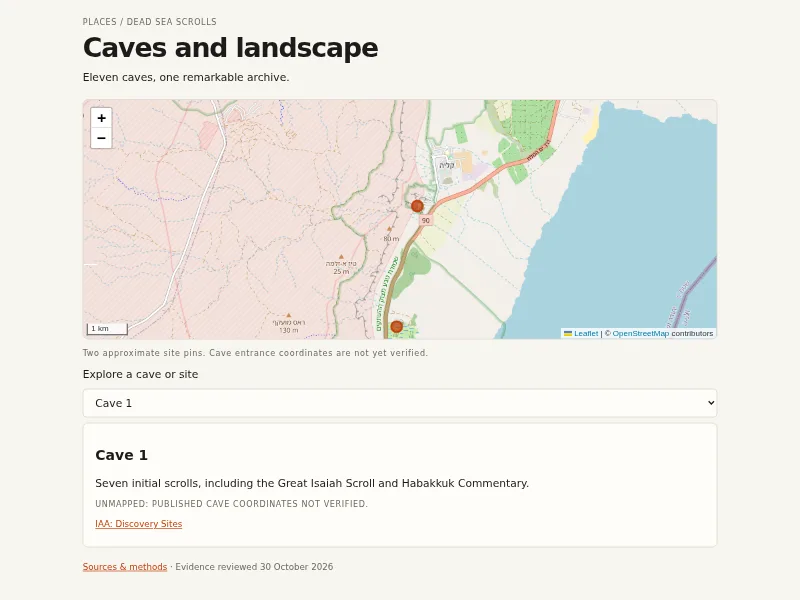
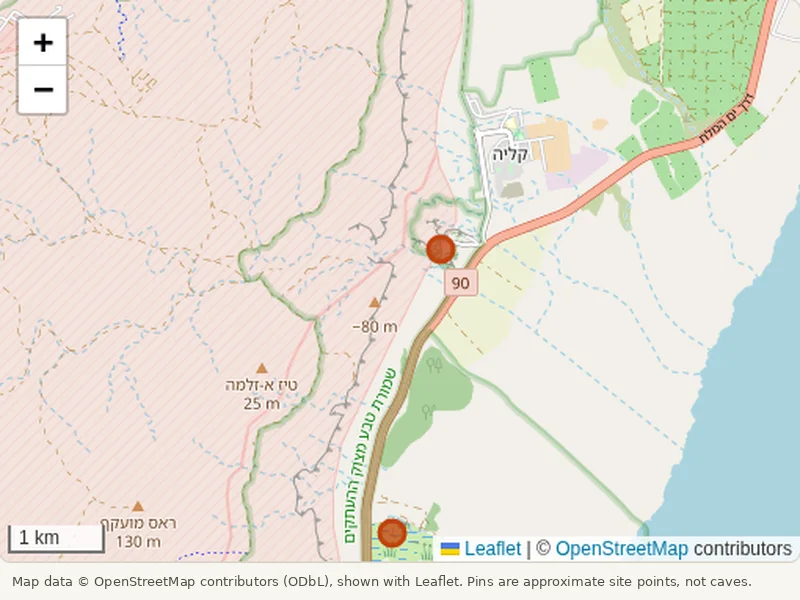
Fit the timeline, map and jar into the site's frame; better posters (#13)
* Compact header in short frames

* Keep the scale label on one line

* Posters that show the visual; record the sandbox check

---------

diff --git a/artifacts/jar/index.html b/artifacts/jar/index.html
@@ -1,1 +1,1 @@
-<!doctype html><html lang="en"><head><meta charset="utf-8"><meta name="viewport" content="width=device-width,initial-scale=1"><title>A Qumran scroll jar</title><link rel="stylesheet" href="./style.css"><script type="importmap">{"imports":{"three":"https://cdn.jsdelivr.net/npm/three@0.170.0/build/three.module.js","three/addons/":"https://cdn.jsdelivr.net/npm/three@0.170.0/examples/jsm/"}}</script></head><body><main><header><div class="eyebrow">Objects / KhQ 1474</div><h1>A vessel for a scroll</h1><p>Drag to turn. Scroll or pinch to zoom.</p></header><div id="scene" style="height:440px;position:relative;border:1px solid var(--line);border-radius:8px;overflow:hidden" role="img" aria-label="Interactive clay scroll jar with lid and a ten centimetre scale bar"><p id="status" style="padding:18px">Loading the 3D model…</p><span id="scale" style="position:absolute;bottom:20px;left:24px;border-bottom:3px solid var(--accent);text-align:center;font-size:12px;pointer-events:none">10 cm</span></div><p style="display:flex;gap:8px;flex-wrap:wrap"><button id="lid" disabled>Lift lid</button><button id="spin" disabled>Pause rotation</button><button id="reset" disabled>Reset view</button></p><p id="dimensions" class="panel"></p><p><small>Interpretive lathe model, not a scan. Profile, texture and lid fit are reconstructed.</small></p><footer><a href="./SOURCES.md" target="_blank" rel="noopener">Sources & methods</a> · Evidence reviewed 30 October 2026</footer></main><script type="module" src="./app.js"></script></body></html>
+<!doctype html><html lang="en"><head><meta charset="utf-8"><meta name="viewport" content="width=device-width,initial-scale=1"><title>A Qumran scroll jar</title><link rel="stylesheet" href="./style.css"><script type="importmap">{"imports":{"three":"https://cdn.jsdelivr.net/npm/three@0.170.0/build/three.module.js","three/addons/":"https://cdn.jsdelivr.net/npm/three@0.170.0/examples/jsm/"}}</script></head><body><main><header><div class="eyebrow">Objects / KhQ 1474</div><h1>A vessel for a scroll</h1><p>Drag to turn. Scroll or pinch to zoom.</p></header><div id="scene" style="height:440px;position:relative;border:1px solid var(--line);border-radius:8px;overflow:hidden" role="img" aria-label="Interactive clay scroll jar with lid and a ten centimetre scale bar"><p id="status" style="padding:18px">Loading the 3D model…</p><span id="scale" style="white-space:nowrap;position:absolute;bottom:20px;left:24px;border-bottom:3px solid var(--accent);text-align:center;font-size:12px;pointer-events:none">10 cm</span></div><p style="display:flex;gap:8px;flex-wrap:wrap"><button id="lid" disabled>Lift lid</button><button id="spin" disabled>Pause rotation</button><button id="reset" disabled>Reset view</button></p><p id="dimensions" class="panel"></p><p><small>Interpretive lathe model, not a scan. Profile, texture and lid fit are reconstructed.</small></p><footer><a href="./SOURCES.md" target="_blank" rel="noopener">Sources & methods</a> · Evidence reviewed 30 October 2026</footer></main><script type="module" src="./app.js"></script></body></html>

diff --git a/artifacts/jar/style.css b/artifacts/jar/style.css
@@ -1,1 +1,1 @@
-*{box-sizing:border-box} :root{color-scheme:light dark;--bg:#F7F5F0;--fg:#1C1B19;--muted:#6d685f;--line:#d8d2c6;--accent:#C2410C;--card:#fffdf8} @media(prefers-color-scheme:dark){:root{--bg:#201e1a;--fg:#eee9dd;--muted:#beb5a6;--line:#514a40;--accent:#fb923c;--card:#29251f}} body{margin:0;background:var(--bg);color:var(--fg);font:16px/1.55 system-ui,sans-serif}main{max-width:1000px;margin:auto;padding:24px}header{margin-bottom:20px}h1{font-size:clamp(26px,6vw,40px);font-weight:550;letter-spacing:-.04em;line-height:1.1;margin:6px 0 12px}h2{font-size:21px;line-height:1.25}p{margin:8px 0}.eyebrow,small{color:var(--muted);font-size:12px;letter-spacing:.08em}.eyebrow{text-transform:uppercase}a{color:var(--accent);overflow-wrap:anywhere}button,select{font:inherit;color:var(--fg);background:var(--card);border:1px solid var(--line);border-radius:6px;padding:10px 14px;cursor:pointer}button:focus-visible,select:focus-visible,a:focus-visible{outline:3px solid var(--accent);outline-offset:3px}button:hover{border-color:var(--accent)}footer{margin-top:20px;font-size:13px;color:var(--muted)}.panel{padding:18px;border:1px solid var(--line);background:var(--card);border-radius:8px}.sources{font-size:13px}.sources a{display:block;padding:4px 0}#status{color:var(--muted)}@media(max-width:420px){main{padding:18px}}
+*{box-sizing:border-box} :root{color-scheme:light dark;--bg:#F7F5F0;--fg:#1C1B19;--muted:#6d685f;--line:#d8d2c6;--accent:#C2410C;--card:#fffdf8} @media(prefers-color-scheme:dark){:root{--bg:#201e1a;--fg:#eee9dd;--muted:#beb5a6;--line:#514a40;--accent:#fb923c;--card:#29251f}} body{margin:0;background:var(--bg);color:var(--fg);font:16px/1.55 system-ui,sans-serif}main{max-width:1000px;margin:auto;padding:24px}header{margin-bottom:20px}h1{font-size:clamp(26px,6vw,40px);font-weight:550;letter-spacing:-.04em;line-height:1.1;margin:6px 0 12px}h2{font-size:21px;line-height:1.25}p{margin:8px 0}.eyebrow,small{color:var(--muted);font-size:12px;letter-spacing:.08em}.eyebrow{text-transform:uppercase}a{color:var(--accent);overflow-wrap:anywhere}button,select{font:inherit;color:var(--fg);background:var(--card);border:1px solid var(--line);border-radius:6px;padding:10px 14px;cursor:pointer}button:focus-visible,select:focus-visible,a:focus-visible{outline:3px solid var(--accent);outline-offset:3px}button:hover{border-color:var(--accent)}footer{margin-top:20px;font-size:13px;color:var(--muted)}.panel{padding:18px;border:1px solid var(--line);background:var(--card);border-radius:8px}.sources{font-size:13px}.sources a{display:block;padding:4px 0}#status{color:var(--muted)}@media(max-width:420px){main{padding:18px}} @media (max-height:520px){main{padding:12px 16px}header{margin-bottom:8px}h1{font-size:22px;margin:0 0 2px}header p{font-size:13px;margin:0}.eyebrow{font-size:11px}#scene{height:64vh!important}#map{height:60vh!important}#events{margin-top:12px}#events button{padding:9px 6px}#detail{padding:12px}}

diff --git a/artifacts/qumran-map/style.css b/artifacts/qumran-map/style.css
@@ -1,1 +1,1 @@
-*{box-sizing:border-box} :root{color-scheme:light dark;--bg:#F7F5F0;--fg:#1C1B19;--muted:#6d685f;--line:#d8d2c6;--accent:#C2410C;--card:#fffdf8} @media(prefers-color-scheme:dark){:root{--bg:#201e1a;--fg:#eee9dd;--muted:#beb5a6;--line:#514a40;--accent:#fb923c;--card:#29251f}} body{margin:0;background:var(--bg);color:var(--fg);font:16px/1.55 system-ui,sans-serif}main{max-width:1000px;margin:auto;padding:24px}header{margin-bottom:20px}h1{font-size:clamp(26px,6vw,40px);font-weight:550;letter-spacing:-.04em;line-height:1.1;margin:6px 0 12px}h2{font-size:21px;line-height:1.25}p{margin:8px 0}.eyebrow,small{color:var(--muted);font-size:12px;letter-spacing:.08em}.eyebrow{text-transform:uppercase}a{color:var(--accent);overflow-wrap:anywhere}button,select{font:inherit;color:var(--fg);background:var(--card);border:1px solid var(--line);border-radius:6px;padding:10px 14px;cursor:pointer}button:focus-visible,select:focus-visible,a:focus-visible{outline:3px solid var(--accent);outline-offset:3px}button:hover{border-color:var(--accent)}footer{margin-top:20px;font-size:13px;color:var(--muted)}.panel{padding:18px;border:1px solid var(--line);background:var(--card);border-radius:8px}.sources{font-size:13px}.sources a{display:block;padding:4px 0}#status{color:var(--muted)}@media(max-width:420px){main{padding:18px}}
+*{box-sizing:border-box} :root{color-scheme:light dark;--bg:#F7F5F0;--fg:#1C1B19;--muted:#6d685f;--line:#d8d2c6;--accent:#C2410C;--card:#fffdf8} @media(prefers-color-scheme:dark){:root{--bg:#201e1a;--fg:#eee9dd;--muted:#beb5a6;--line:#514a40;--accent:#fb923c;--card:#29251f}} body{margin:0;background:var(--bg);color:var(--fg);font:16px/1.55 system-ui,sans-serif}main{max-width:1000px;margin:auto;padding:24px}header{margin-bottom:20px}h1{font-size:clamp(26px,6vw,40px);font-weight:550;letter-spacing:-.04em;line-height:1.1;margin:6px 0 12px}h2{font-size:21px;line-height:1.25}p{margin:8px 0}.eyebrow,small{color:var(--muted);font-size:12px;letter-spacing:.08em}.eyebrow{text-transform:uppercase}a{color:var(--accent);overflow-wrap:anywhere}button,select{font:inherit;color:var(--fg);background:var(--card);border:1px solid var(--line);border-radius:6px;padding:10px 14px;cursor:pointer}button:focus-visible,select:focus-visible,a:focus-visible{outline:3px solid var(--accent);outline-offset:3px}button:hover{border-color:var(--accent)}footer{margin-top:20px;font-size:13px;color:var(--muted)}.panel{padding:18px;border:1px solid var(--line);background:var(--card);border-radius:8px}.sources{font-size:13px}.sources a{display:block;padding:4px 0}#status{color:var(--muted)}@media(max-width:420px){main{padding:18px}} @media (max-height:520px){main{padding:12px 16px}header{margin-bottom:8px}h1{font-size:22px;margin:0 0 2px}header p{font-size:13px;margin:0}.eyebrow{font-size:11px}#scene{height:64vh!important}#map{height:60vh!important}#events{margin-top:12px}#events button{padding:9px 6px}#detail{padding:12px}}

diff --git a/artifacts/timeline/style.css b/artifacts/timeline/style.css
@@ -1,1 +1,1 @@
-*{box-sizing:border-box} :root{color-scheme:light dark;--bg:#F7F5F0;--fg:#1C1B19;--muted:#6d685f;--line:#d8d2c6;--accent:#C2410C;--card:#fffdf8} @media(prefers-color-scheme:dark){:root{--bg:#201e1a;--fg:#eee9dd;--muted:#beb5a6;--line:#514a40;--accent:#fb923c;--card:#29251f}} body{margin:0;background:var(--bg);color:var(--fg);font:16px/1.55 system-ui,sans-serif}main{max-width:1000px;margin:auto;padding:24px}header{margin-bottom:20px}h1{font-size:clamp(26px,6vw,40px);font-weight:550;letter-spacing:-.04em;line-height:1.1;margin:6px 0 12px}h2{font-size:21px;line-height:1.25}p{margin:8px 0}.eyebrow,small{color:var(--muted);font-size:12px;letter-spacing:.08em}.eyebrow{text-transform:uppercase}a{color:var(--accent);overflow-wrap:anywhere}button,select{font:inherit;color:var(--fg);background:var(--card);border:1px solid var(--line);border-radius:6px;padding:10px 14px;cursor:pointer}button:focus-visible,select:focus-visible,a:focus-visible{outline:3px solid var(--accent);outline-offset:3px}button:hover{border-color:var(--accent)}footer{margin-top:20px;font-size:13px;color:var(--muted)}.panel{padding:18px;border:1px solid var(--line);background:var(--card);border-radius:8px}.sources{font-size:13px}.sources a{display:block;padding:4px 0}#status{color:var(--muted)}@media(max-width:420px){main{padding:18px}}
+*{box-sizing:border-box} :root{color-scheme:light dark;--bg:#F7F5F0;--fg:#1C1B19;--muted:#6d685f;--line:#d8d2c6;--accent:#C2410C;--card:#fffdf8} @media(prefers-color-scheme:dark){:root{--bg:#201e1a;--fg:#eee9dd;--muted:#beb5a6;--line:#514a40;--accent:#fb923c;--card:#29251f}} body{margin:0;background:var(--bg);color:var(--fg);font:16px/1.55 system-ui,sans-serif}main{max-width:1000px;margin:auto;padding:24px}header{margin-bottom:20px}h1{font-size:clamp(26px,6vw,40px);font-weight:550;letter-spacing:-.04em;line-height:1.1;margin:6px 0 12px}h2{font-size:21px;line-height:1.25}p{margin:8px 0}.eyebrow,small{color:var(--muted);font-size:12px;letter-spacing:.08em}.eyebrow{text-transform:uppercase}a{color:var(--accent);overflow-wrap:anywhere}button,select{font:inherit;color:var(--fg);background:var(--card);border:1px solid var(--line);border-radius:6px;padding:10px 14px;cursor:pointer}button:focus-visible,select:focus-visible,a:focus-visible{outline:3px solid var(--accent);outline-offset:3px}button:hover{border-color:var(--accent)}footer{margin-top:20px;font-size:13px;color:var(--muted)}.panel{padding:18px;border:1px solid var(--line);background:var(--card);border-radius:8px}.sources{font-size:13px}.sources a{display:block;padding:4px 0}#status{color:var(--muted)}@media(max-width:420px){main{padding:18px}} @media (max-height:520px){main{padding:12px 16px}header{margin-bottom:8px}h1{font-size:22px;margin:0 0 2px}header p{font-size:13px;margin:0}.eyebrow{font-size:11px}#scene{height:64vh!important}#map{height:60vh!important}#events{margin-top:12px}#events button{padding:9px 6px}#detail{padding:12px}}

diff --git a/checks/README.md b/checks/README.md
@@ -4,7 +4,15 @@ Run `python3 checks/verify.py` from the repository. It checks JSON and GeoJSON p
 
 `source-fetches.json` records the final HTTP GET checks on 30 October 2026. Supporting passages and photo-license metadata were read during research; HTTP status alone does not establish a claim.
 
-All 28 artifact files were served locally with Python’s HTTP server and fetched in full successfully. The citation skill passed the skill-creator frontmatter validator. Photos are at most 1280 px wide and under 300,000 bytes. Browser rendering and iframe interaction have not been manually verified; CDN and WebGL availability remain runtime dependencies.
+All 28 artifact files were served locally with Python’s HTTP server and fetched in full successfully. The citation skill passed the skill-creator frontmatter validator. Photos are at most 1280 px wide and under 300,000 bytes.
+
+## In the site's sandbox
+
+On 1 November 2026 each artifact was opened inside the abstracts.co artifact viewer, running the site locally against this repo. That means the sandboxed iframe with no same-origin access and the 16:10 frame (about 580 × 360 at a 1280 px window), at desktop and phone widths, in headless Chrome with software WebGL. The timeline, map (Leaflet and OpenStreetMap tiles), jar (three.js from jsDelivr), cutaway and shrine photos all loaded their data and drew. The jar turned, and the Lift lid / Pause / Reset buttons were present.
+
+What that found: the map, jar and timeline put their visual below the fold of the short frame. They now use a compact header there. The shrine photos were listed as a `gallery`, which the site shows without credits, so they're now a web page that shows credits under each photo.
+
+Not checked: real GPUs, Safari, and screen readers. CDN and WebGL availability are still runtime dependencies.
 
 ## Known content gap
 

diff --git a/artifacts/qumran-map/SOURCES.md b/artifacts/qumran-map/SOURCES.md
@@ -14,3 +14,5 @@ Caves 1–11 are included as GeoJSON features with `geometry: null`: no cave ent
 Site coordinates reproduce the published reference coordinates; they do not imply survey precision. Wikipedia is used only for site locations and the Ein Feshkha overview; the IAA supplies the cave finds.
 
 [Leaflet 1.9.4](https://unpkg.com/leaflet@1.9.4/dist/leaflet.js) supplies map controls. [OpenStreetMap](https://www.openstreetmap.org/copyright) supplies map tiles under its attribution requirements.
+
+`preview.webp` is a screenshot of this map as rendered on 1 November 2026. The tiles in it show OpenStreetMap data, so the image carries the attribution "Map data © OpenStreetMap contributors (ODbL)" along its bottom edge.
